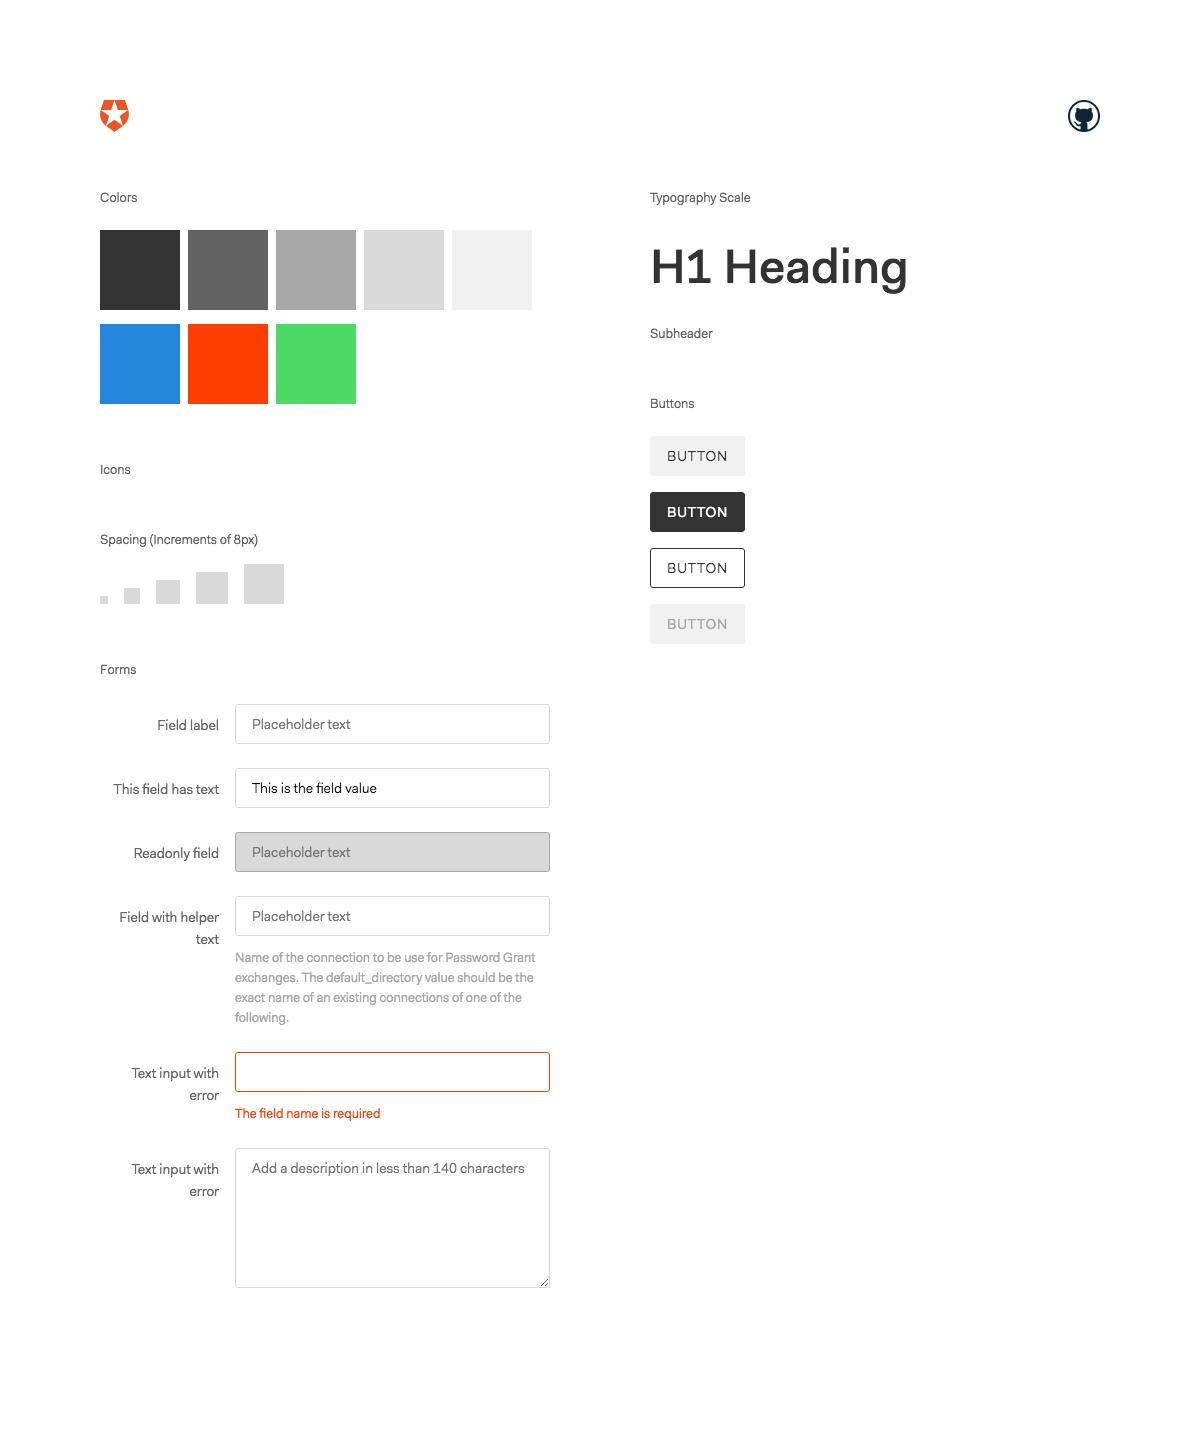
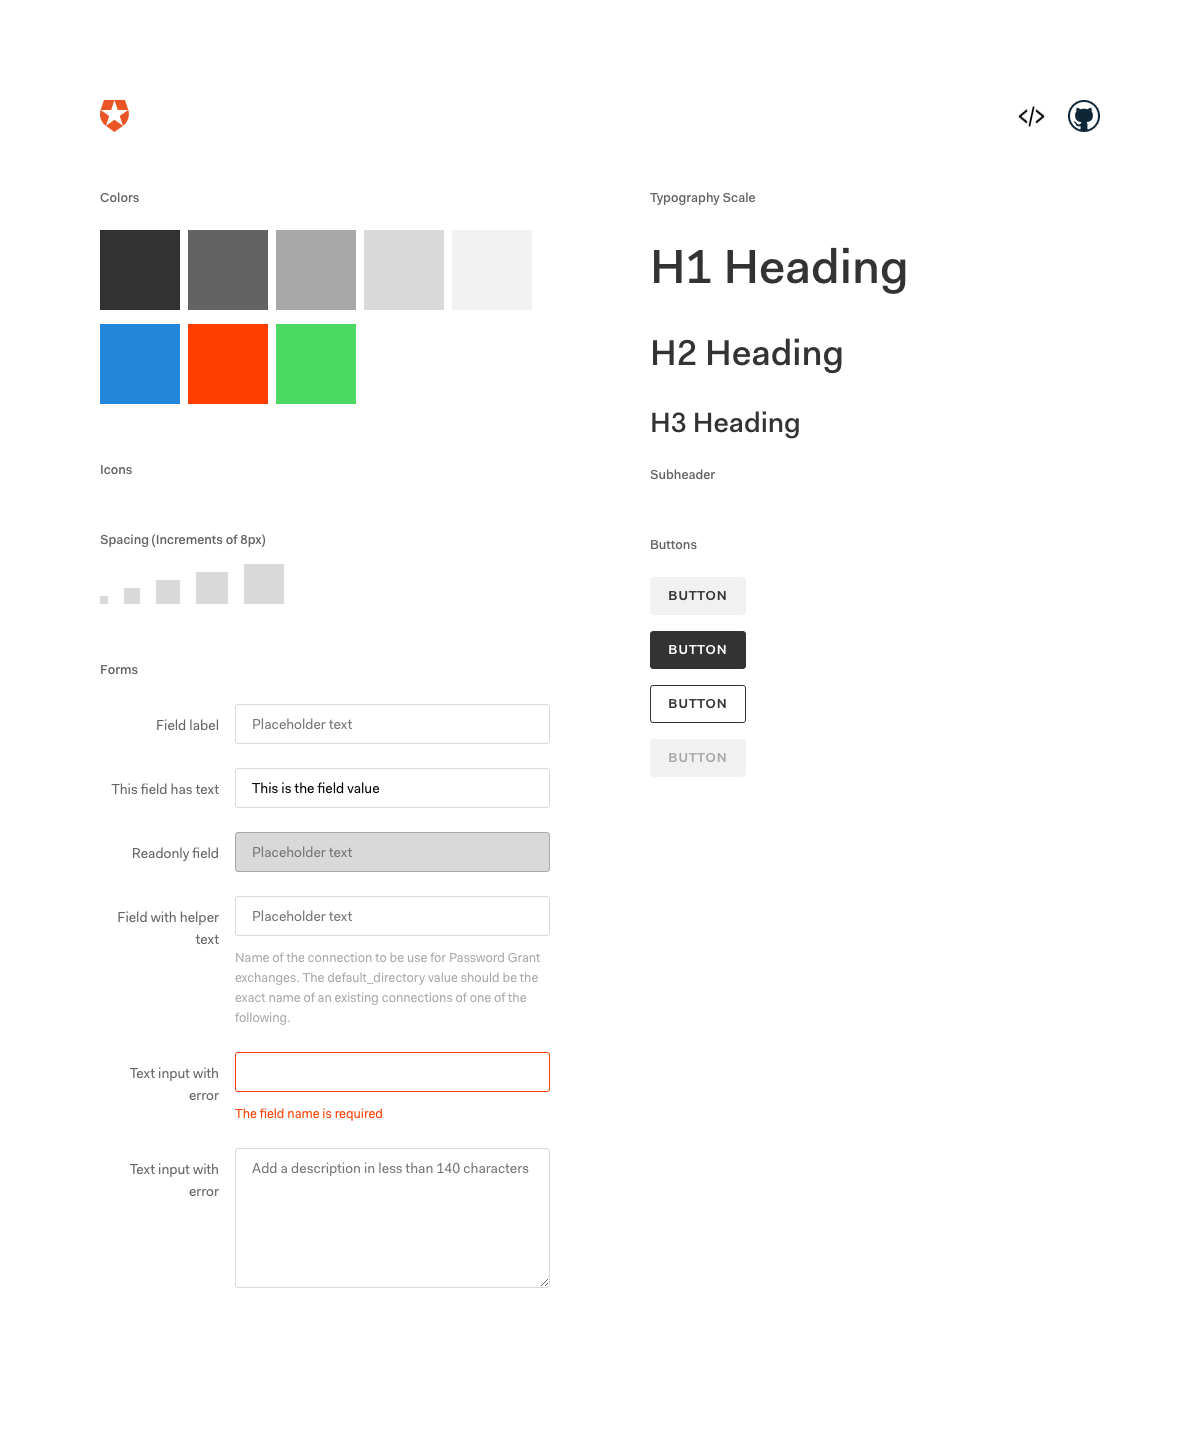
rename headline to heaading, add h2 and h3

diff --git a/src/components/atoms/typography.js b/src/components/atoms/typography.js
@@ -60,10 +60,24 @@ injectGlobal`
   }
 `
 
-const Headline = styled.h1`
+const Heading1 = styled.h1`
   margin: 20px 0 14px;
   color: ${colors.base};
   font-size: 48px;
+  font-weight: ${fonts.weight.medium};
+`
+
+const Heading2 = styled.h2`
+  margin: 20px 0 14px;
+  color: ${colors.base};
+  font-size: 36px;
+  font-weight: ${fonts.weight.medium};
+`
+
+const Heading3 = styled.h3`
+  margin: 20px 0 14px;
+  color: ${colors.base};
+  font-size: 28px;
   font-weight: ${fonts.weight.medium};
 `
 
@@ -80,4 +94,4 @@ const Text = styled.span`
   font-weight: ${fonts.weight.normal};
 `
 
-export { Headline, Subheader, Text }
+export { Heading1, Heading2, Heading3, Subheader, Text }

diff --git a/src/overview/src/typography.js b/src/overview/src/typography.js
@@ -1,11 +1,13 @@
 import React from 'react'
 
 import Container from './container'
-import { Headline, Subheader } from '../../components'
+import { Heading1, Heading2, Heading3, Subheader } from '../../components'
 
 const Colors = () => (
   <Container title="Typography Scale">
-    <Headline>H1 Heading</Headline>
+    <Heading1>H1 Heading</Heading1>
+    <Heading2>H2 Heading</Heading2>
+    <Heading3>H3 Heading</Heading3>
     <Subheader>Subheader</Subheader>
   </Container>
 )

diff --git a/src/components/index.js b/src/components/index.js
@@ -23,8 +23,8 @@ export { Logo }
 import Icon from './atoms/icon'
 export { Icon }
 
-import { Headline, Subheader, Text } from './atoms/typography'
-export { Headline, Subheader, Text }
+import { Heading1, Heading2, Heading3, Subheader, Text } from './atoms/typography'
+export { Heading1, Heading2, Heading3, Subheader, Text }
 
 /* molecules */
 import { Form, FormField, FormLabel, HelperText, Error } from './molecules/form'
